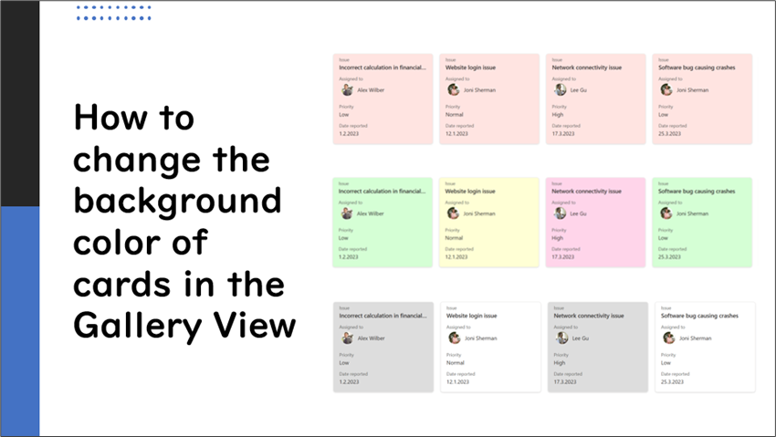
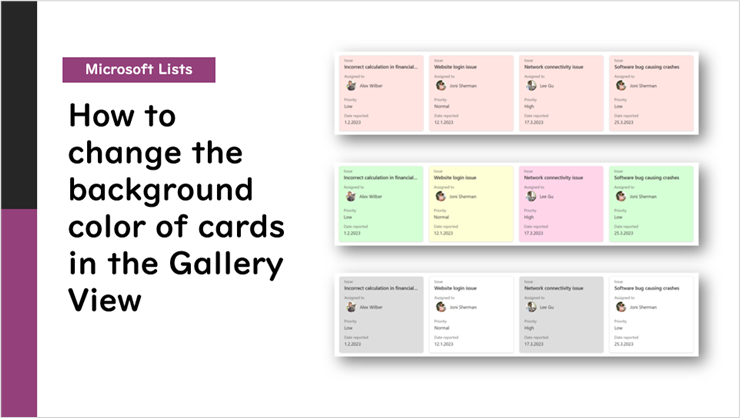
Added product name to image and title

diff --git a/content/post/how-to-change-the-background-color-of-cards-in-the-gallery-view/index.md b/content/post/how-to-change-the-background-color-of-cards-in-the-gallery-view/index.md
@@ -1,5 +1,5 @@
 ---
-title: "How to change the background color of cards in the Gallery View"
+title: "[Microsoft Lists] How to change the background color of cards in the Gallery View"
 date: 2023-01-30T00:00:00-00:00
 author: "Tetsuya Kawahara"
 githubname: tecchan1107
